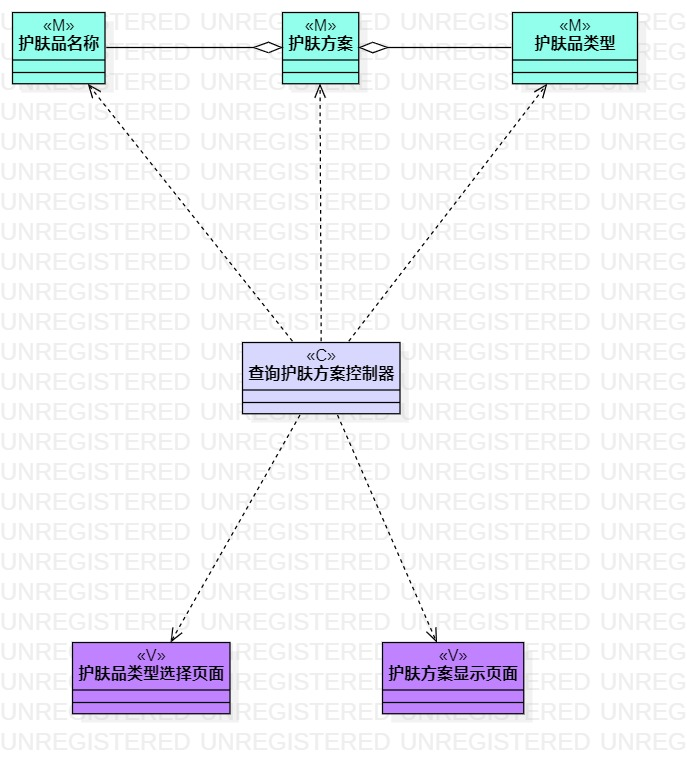
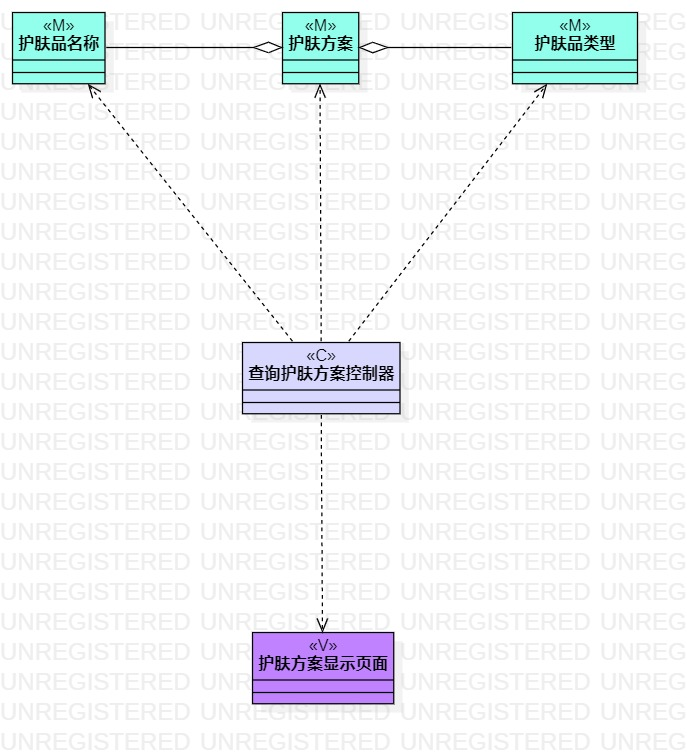
#4 #5 #563 实验四五：类建模

diff --git a/students/1714080902421/lab4.md b/students/1714080902421/lab4.md
@@ -1,0 +1,172 @@
+# 实验四五：类建模
+
+## 一、实验目标
+
+1.选题类建模
+
+2.掌握类建模方法
+
+3.掌握类图画法
+
+4.了解MVC或熟悉的设计模式
+
+5.理解类的5种关系
+
+6.掌握类之间关系的画法
+
+## 二、实验内容
+
+1.根据选题进行类建模
+
+2.在用例规约的基本流程和拓展流程中寻找类
+
+3.给系统操作设计业务服务类
+
+## 三、实验步骤
+
+1.确认选题 - 护肤品推荐系统
+
+2.根据选题创建用例图
+
+  * a.确认系统的参与者 - 用户
+  
+  * b.确认系统的功能 - 录入皮肤状态、查询护肤品详细、查询护肤方案
+
+  * c.建立用户和功能的关系 - 用例图
+
+3.根据用例图中功能攥写3个用例规约
+
+  * 功能a.录入皮肤状态
+  
+  * 功能b.查询护肤品详细
+  
+  * 功能c.查询护肤方案
+
+  细化每个功能的业务流程，根据系统需求适当增加扩展流程
+
+4.将用例规约中每个功能的业务流程转换为活动图
+
+  * a.参考演示视频画图
+  
+  * b.根据实验问题讲解视频修改活动图中可能存在的问题
+  
+  * c.将用例规约中的基本流程化成活动图
+
+5.将用例规约中存在的类提取出来画为类图
+
+  * a.录入皮肤状态——M（用户账号 皮肤状态） V（皮肤状态选择页面） C（皮肤状态录入控制器）
+  
+  * b.查询护肤品详情——M（护肤品编号 护肤品名称 护肤品成分 护肤品详细信息） V（护肤品信息显示页面） C（查询护肤品详情控制器）
+  
+  * c.查询护肤方案——M（护肤品名称 护肤品类型 护肤方案） V（护肤品类型选择页面 护肤方案显示页面） C（查询护肤方案控制器）
+
+## 四、实验结果
+
+1. 用例图
+
+![图1：实验二用例图](./No2_UseCaseDiagram.jpg)
+
+图1：实验二用例图
+
+2. 用例规约
+
+* 表1：录入皮肤状态用例规约  
+
+用例编号  | UC01 | 备注  
+-|:-|-  
+用例名称  | 录入皮肤状态  |   
+前置条件  | 用户登录护肤品推荐系统 |
+后置条件  |      |  
+基本流程  | 1.用户点击“皮肤状态”按钮|*用例执行成功的步骤*    
+~| 2.系统显示选择页面 |
+~| 3.用户点击勾选皮肤状态信息，点击“确认录入”按钮 |   
+~| 4.系统添加一条皮肤状态信息，提示“录入成功”， |   
+~| 5.用户点击“关闭”按钮 |
+~| 6.系统返回首页，显示皮肤状态信息 |
+扩展流程  | 3.1 系统检查用户选择操作为空，提示“录入信息不能为空”  |*用例执行失败*    
+
+
+* 表2：查询护肤方案用例规约  
+
+用例编号  | UC02 | 备注  
+-|:-|-  
+用例名称  | 查询护肤方案  |   
+前置条件  | 用户已成功录入皮肤状态 |
+后置条件  |      |
+基本流程  | 1.用户点击“搜索”按钮  |*用例执行成功的步骤*    
+~| 2.系统查询护肤方案 |   
+~| 3.系统显示护肤方案页面 |   
+~| 4.用户点击“筛选”按钮 |   
+~| 5.系统显示护肤品类型选择页面 | 
+~| 6.用户选择护肤品类型 |
+~| 7.系统检查用户选择操作不为空，查询护肤方案 |
+~| 8.系统显示护肤方案 |
+扩展流程  | 7.1 系统检查用户选择操作为空，提示“请选择护肤品类型”   |*用例执行失败*  
+~| 8.1 系统检查无匹配护肤方案，提示“无匹配护肤方案，请选择其他护肤品类型再次进行搜索”   |
+
+
+* 表3：查询护肤品详情用例规约  
+
+用例编号  | UC03 | 备注  
+-|:-|-  
+用例名称  | 查询护肤品详情 |   
+前置条件  | 用户登录护肤品推荐系统 | 
+后置条件  |      | 
+基本流程  | 1.用户在输入框输入护肤品名称，点击“搜索”按钮 |*用例执行成功的步骤*    
+~| 2.系统查询护肤品信息 |   
+~| 3.系统显示护肤品详细信息 | 
+扩展流程  | 2.1 系统检查输入信息为空，提示“请输入护肤品名称”  |*用例执行失败*
+~| 2.2 系统检查输入信息不为空，查询不到护肤品信息，提示“无此护肤品，请检查输入名称是否错误”  |
+
+3. 活动图
+
+* 1) 录入皮肤中状态
+
+  ![图2：实验三活动图1](./No3_1_Activity.jpg)
+  
+  图2：实验三活动图_1
+  
+* 2) 查询护肤品详情
+
+  ![图3：实验三活动图2](./No3_3_Activity.jpg)
+  
+  图3：实验三活动图_2
+  
+* 3) 查询护肤方案
+
+  ![图4：实验三活动图3](./No3_2_Activity.jpg)
+  
+  图4：实验三活动图_3
+
+4. 类图
+
+* 1) 录入皮肤中状态
+
+  ![图5：实验三活动图1](./No4_1_Class.jpg)
+  
+  图5：实验四类图_1
+  
+* 2) 查询护肤品详情
+
+  ![图6：实验四类图2](./No4_3_Class.jpg)
+  
+  图6：实验四类图_2
+  
+* 3) 查询护肤方案
+
+  ![图7：实验四类图3](./No4_2_Class.jpg)
+  
+  图7：实验四类图_3
+
+## 五、学习笔记
+
+UML 中类与类, 类与接口, 接口与接口这间的关系有: 泛化(generalization) 关系, 关联(association)关系( 关联, 聚合, 合成), 依赖(dependency)关系，实现(realization)关系
+
+1.聚合（aggregation）关系是一种弱关联。一个聚集对象有多个部件构成，部件是聚集的一部分。例如：车和轮胎的关系，轮胎没了，车依然存在。聚合具有传递性，A聚合B,B聚合C ，A聚合C,并且也具有反聚合性，A聚合C，C不能聚合A
+
+2.组合（compostion）:有两个恩爱的约束条件，一个组成部件至多属于一个装配件。而且一个组成部件一旦被分配给装配件，它就会和装配件有着相同的生命周期。装配件消亡，组成件也将随之消亡。例如：人和胳臂，人消失了，胳臂也不复存在，又例如：程序员没了代码就会死。这种关系要比聚合更强。用实心菱型表示。
+
+3.依赖（dependency）:物体与物体之间产生的依赖关系，就是一个类A使用到了另一个类B，而这种使用关系是具有偶然性的、临时性的、非常弱的，但是B类的变化会影响到A，例如：人依赖空气和水
+
+4.关系所表现的强弱程度依次为：组合>聚合>关联>依赖
+
